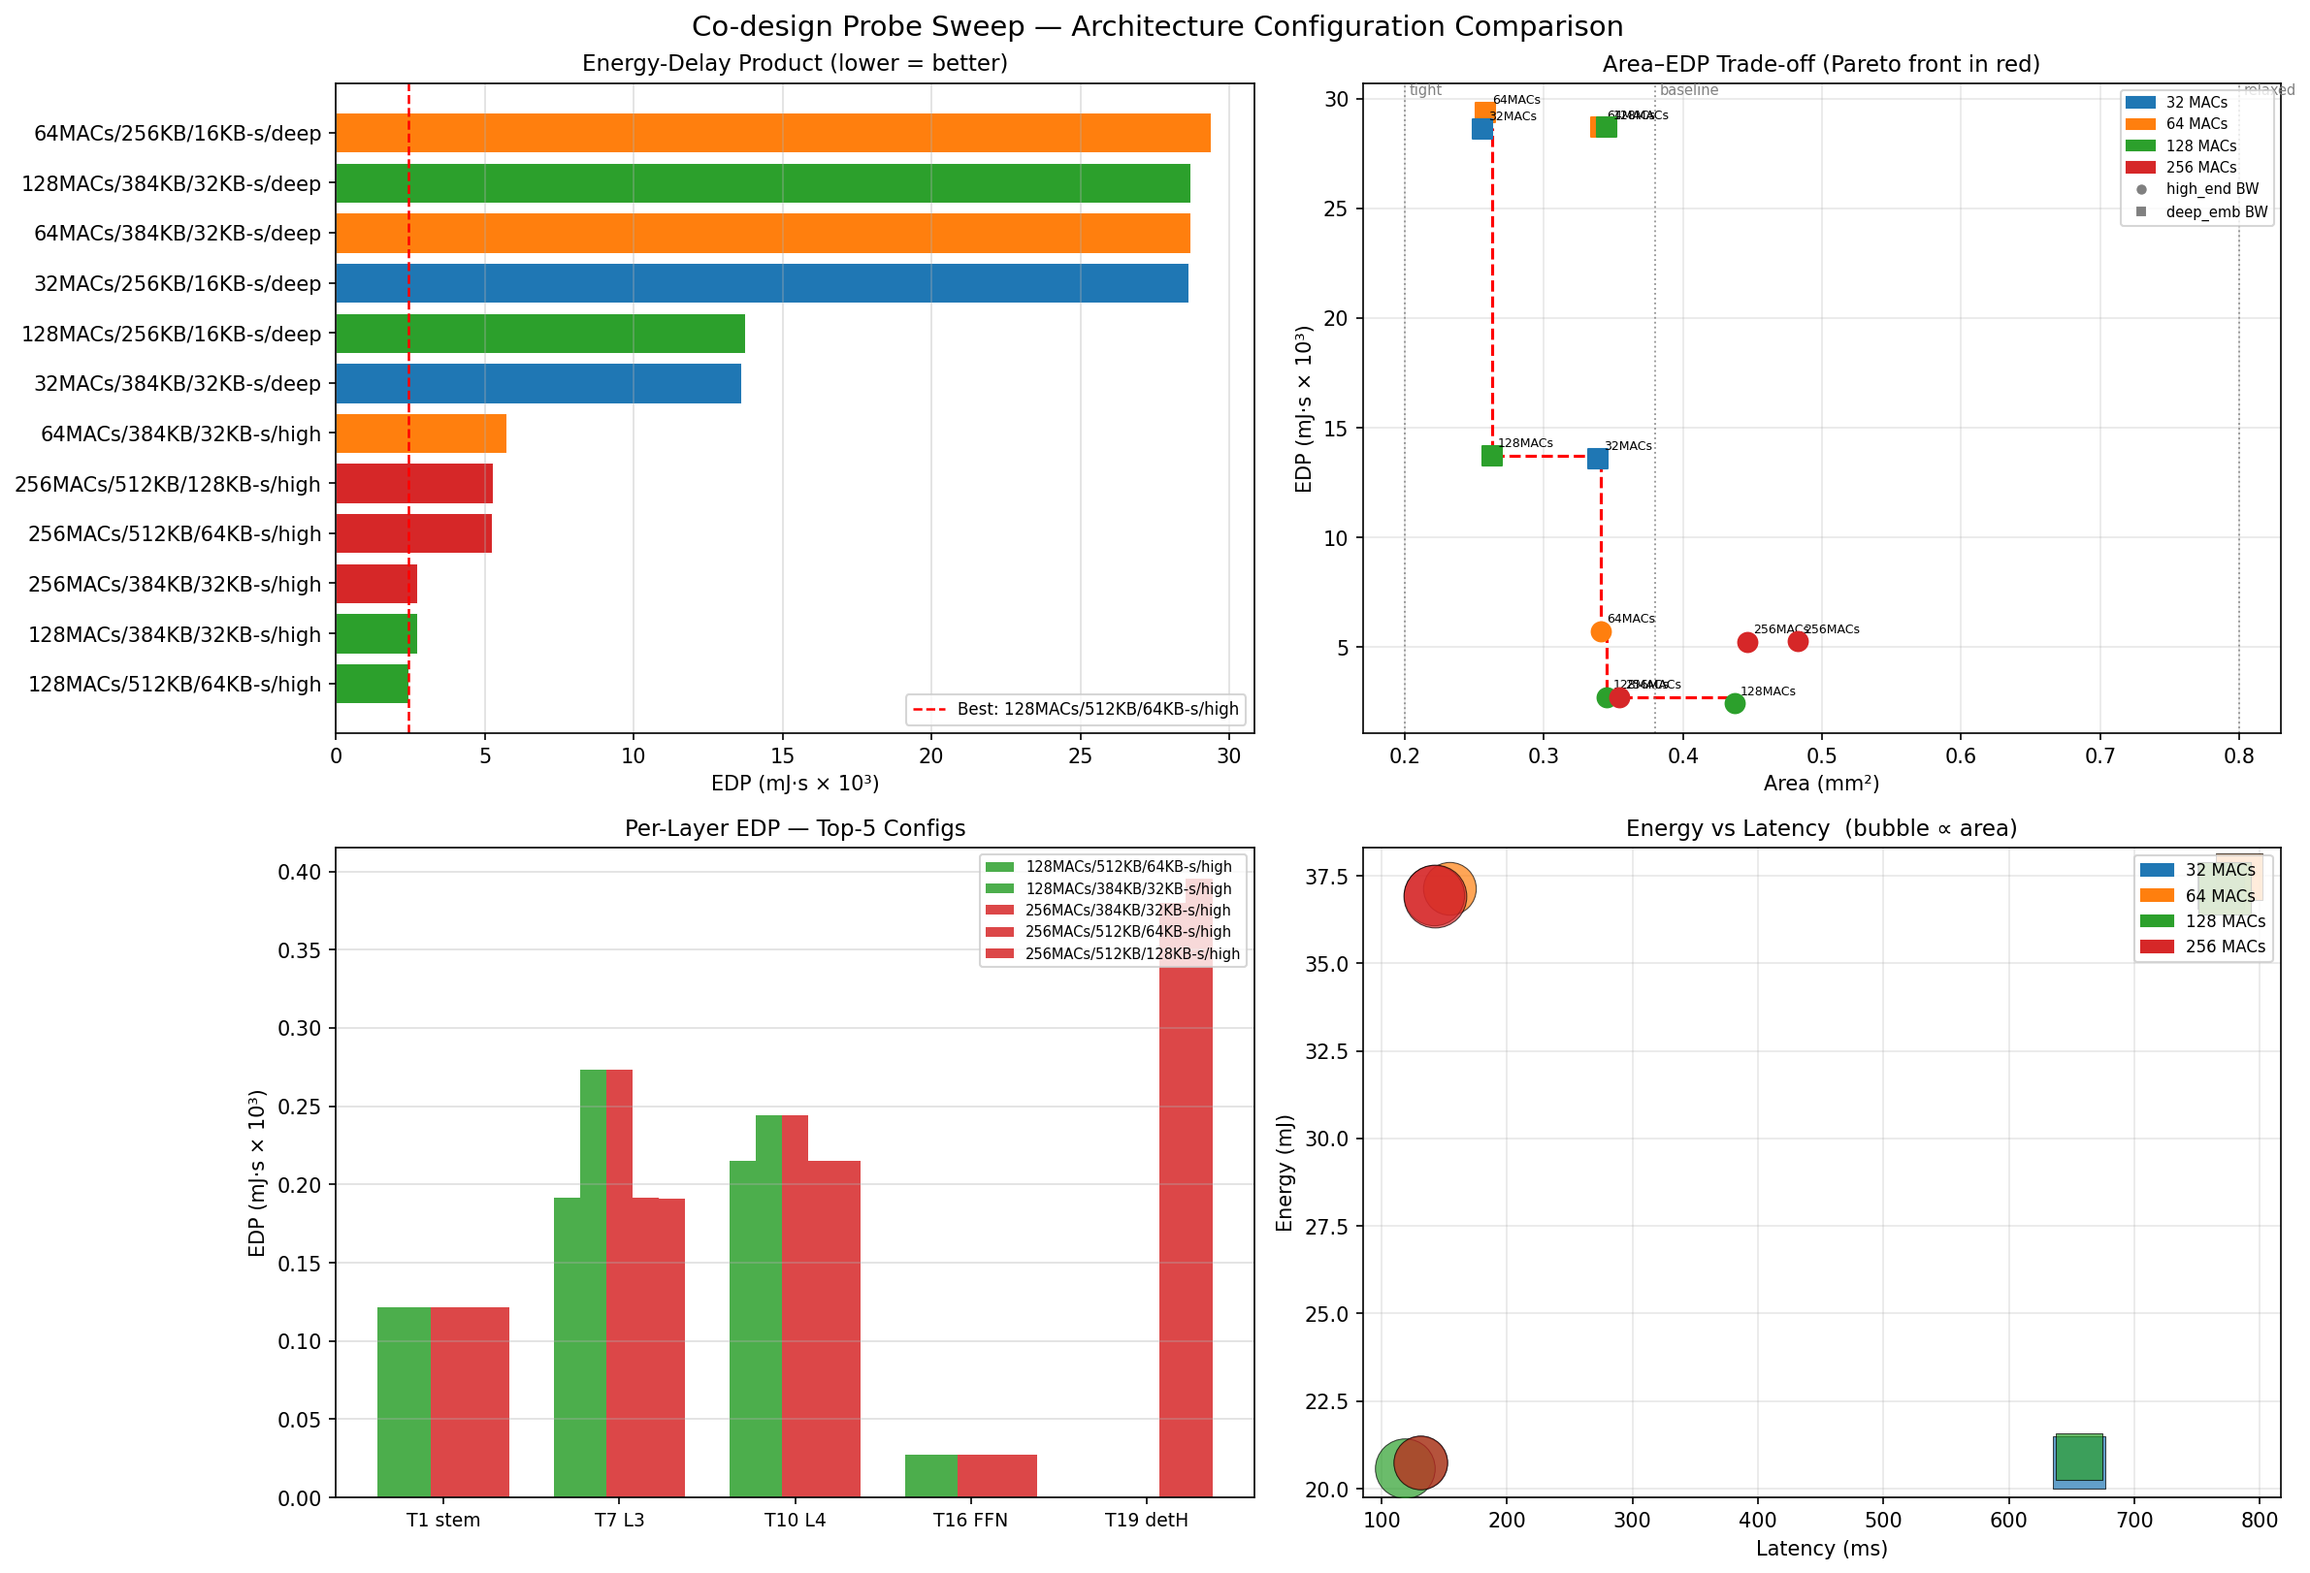
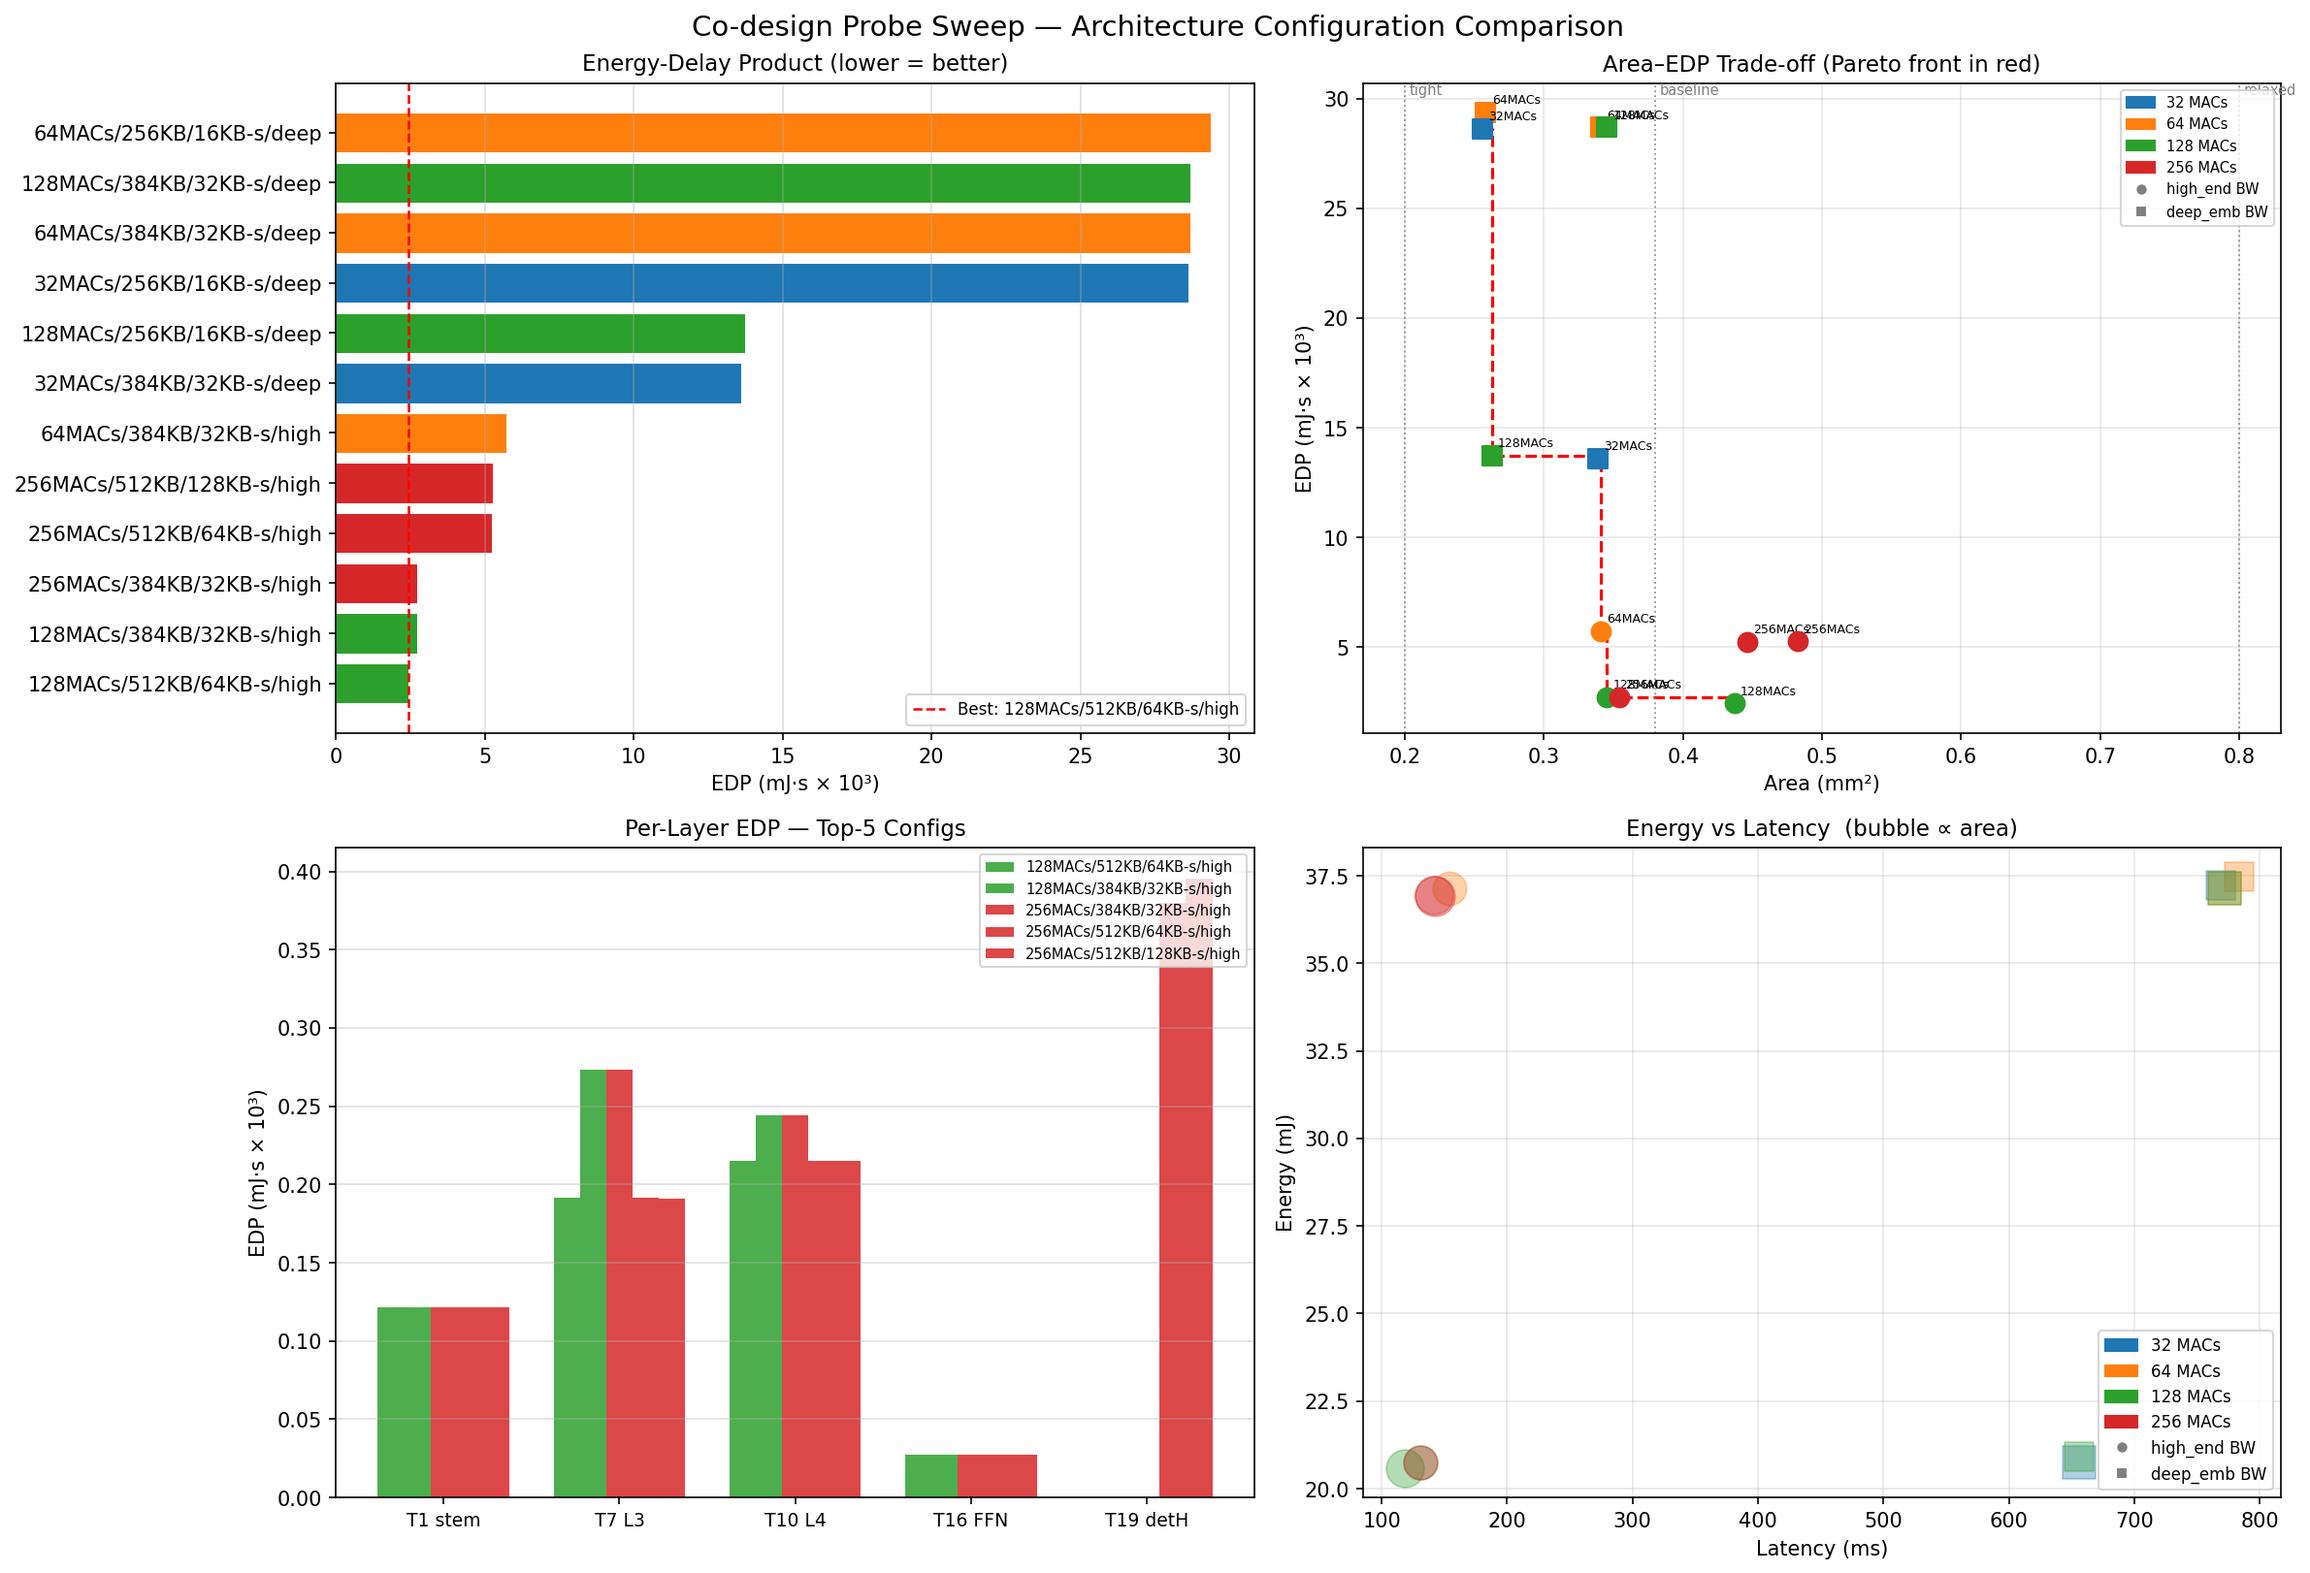
budget sweep plots + docs of search space

diff --git a/milestone_2/plot_results.py b/milestone_2/plot_results.py
@@ -149,16 +149,18 @@ def plot_probe_sweep(data: list[dict], out_path: Path) -> None:
 
     # ── Panel 4: Energy vs Latency scatter (bubble = area) ────────────────────
     ax = axes[1, 1]
-    bubble_scale = 2000
+    bubble_scale = 800
     for c, col in zip(configs, colors):
         ax.scatter(c["total_latency_s"] * 1e3, c["total_energy_j"] * 1e3,
-                   s=c["area_mm2"] * bubble_scale, color=col, alpha=0.7,
-                   marker=_preset_marker(c["system_preset"]), edgecolors="black", linewidths=0.5, zorder=3)
+                   s=c["area_mm2"] * bubble_scale, color=col, alpha=0.35,
+                   marker=_preset_marker(c["system_preset"]), edgecolors=col, linewidths=0.8, zorder=3)
     ax.set_xlabel("Latency (ms)", fontsize=10)
     ax.set_ylabel("Energy (mJ)", fontsize=10)
     ax.set_title("Energy vs Latency  (bubble ∝ area)", fontsize=11)
     legend_patches = [mpatches.Patch(color=mac_color[m], label=f"{m} MACs") for m in mac_vals]
-    ax.legend(handles=legend_patches, fontsize=8, loc="upper right")
+    legend_patches.append(plt.Line2D([0], [0], marker="o", color="w", markerfacecolor="gray", label="high_end BW"))
+    legend_patches.append(plt.Line2D([0], [0], marker="s", color="w", markerfacecolor="gray", label="deep_emb BW"))
+    ax.legend(handles=legend_patches, fontsize=8, loc="lower right")
     ax.grid(True, alpha=0.3)
 
     plt.tight_layout()
@@ -168,31 +170,139 @@ def plot_probe_sweep(data: list[dict], out_path: Path) -> None:
 
 
 def plot_budget_sensitivity(data: dict, out_path: Path) -> None:
-    """Bar chart comparing best config per budget tier."""
+    """4-panel budget sensitivity visualization using all configs per tier."""
     budgets = list(data.keys())
-    metrics = ["total_energy_j", "total_latency_s", "total_edp", "area_mm2"]
-    metric_labels = ["Energy (mJ)", "Latency (ms)", "EDP (mJ·s × 10³)", "Area (mm²)"]
-    scale = [1e3, 1e3, 1e3, 1.0]
+    tier_cmap = plt.cm.Set1
+    tier_colors = {b: tier_cmap(i / max(len(budgets) - 1, 1)) for i, b in enumerate(budgets)}
 
-    fig, axes = plt.subplots(1, 4, figsize=(18, 5))
-    fig.suptitle("Budget Sensitivity: Best Config Per Budget Tier", fontsize=13)
+    fig, axes = plt.subplots(2, 2, figsize=(16, 11))
+    fig.suptitle("Budget Sensitivity: Area–EDP Co-design Trade-offs", fontsize=14, y=0.98)
 
-    colors = plt.cm.Set2(np.linspace(0, 0.6, len(budgets)))
-    for ax, metric, mlabel, sc in zip(axes, metrics, metric_labels, scale):
-        vals, xlabels = [], []
-        for b, bdat in data.items():
-            best = bdat.get("best")
-            if best:
-                vals.append(best.get(metric, 0) * sc)
-                xlabels.append(f"{b}\n{_short_label(best.get('label',''))}")
-            else:
-                vals.append(0)
-                xlabels.append(f"{b}\n(none)")
-        bars = ax.bar(xlabels, vals, color=colors, edgecolor="white")
-        ax.bar_label(bars, fmt="%.3f", fontsize=8, padding=2)
-        ax.set_ylabel(mlabel, fontsize=9)
-        ax.set_title(mlabel, fontsize=10)
-        ax.yaxis.grid(True, alpha=0.4)
+    # ── Panel 1: Area–EDP scatter — all configs, colored by budget tier ───────
+    ax = axes[0, 0]
+    for tier, bdat in data.items():
+        col = tier_colors[tier]
+        budget_limit = bdat.get("budget_mm2", None)
+        all_cfgs = bdat.get("all", [])
+        best = bdat.get("best")
+        if not all_cfgs and best:
+            all_cfgs = [best]
+        xs = [c["area_mm2"] for c in all_cfgs]
+        ys = [c["total_edp"] * 1e3 for c in all_cfgs]
+        ax.scatter(xs, ys, color=col, alpha=0.55, s=60, zorder=3,
+                   label=f"{tier} (≤{budget_limit} mm²)" if budget_limit else tier)
+        # Highlight best
+        if best:
+            ax.scatter(best["area_mm2"], best["total_edp"] * 1e3,
+                       color=col, s=180, marker="*", edgecolors="black",
+                       linewidths=0.8, zorder=5)
+        # Pareto front within this tier
+        if len(all_cfgs) > 1:
+            px = [c["area_mm2"] for c in all_cfgs]
+            py = [c["total_edp"] for c in all_cfgs]
+            pidx = _pareto_front(px, py)
+            ppx = [px[i] for i in pidx]
+            ppy = [py[i] * 1e3 for i in pidx]
+            ax.step(ppx + [ppx[-1]], ppy + [ppy[-1]], where="post",
+                    color=col, linewidth=1.2, linestyle="--", alpha=0.7, zorder=2)
+        # Budget limit vertical line
+        if budget_limit:
+            ax.axvline(budget_limit, color=col, linestyle=":", linewidth=0.9, alpha=0.6)
+
+    ax.legend(fontsize=8, loc="upper right")
+    ax.set_xlabel("Area (mm²)", fontsize=10)
+    ax.set_ylabel("EDP (mJ·s × 10³)", fontsize=10)
+    ax.set_title("Area–EDP Trade-offs by Budget Tier\n(★ = best; dashed = Pareto front; dotted = limit)", fontsize=10)
+    ax.grid(True, alpha=0.3)
+
+    # ── Panel 2: EDP comparison — all configs per tier as grouped bars ────────
+    ax = axes[0, 1]
+    x_pos = 0
+    xticks, xticklabels = [], []
+    gap = 0.4
+    for tier, bdat in data.items():
+        col = tier_colors[tier]
+        all_cfgs = bdat.get("all", [])
+        best = bdat.get("best")
+        if not all_cfgs and best:
+            all_cfgs = [best]
+        sorted_cfgs = sorted(all_cfgs, key=lambda c: c["total_edp"])
+        tier_xs = []
+        for c in sorted_cfgs:
+            edp_val = c["total_edp"] * 1e3
+            bar_col = col if (best and c.get("label") != best.get("label")) else "none"
+            edge_col = col
+            hatch = "" if (best and c.get("label") == best.get("label")) else ".."
+            ax.bar(x_pos, edp_val, color=col,
+                   alpha=1.0 if (best and c.get("label") == best.get("label")) else 0.45,
+                   edgecolor="black", linewidth=0.4, hatch=hatch if hatch else None, width=0.7)
+            tier_xs.append(x_pos)
+            x_pos += 1
+        # Tier label centered under the group
+        if tier_xs:
+            xticks.append(np.mean(tier_xs))
+            xticklabels.append(f"{tier}\n({len(sorted_cfgs)} cfgs)")
+        x_pos += gap
+
+    ax.set_xticks(xticks)
+    ax.set_xticklabels(xticklabels, fontsize=9)
+    ax.set_ylabel("EDP (mJ·s × 10³)", fontsize=10)
+    ax.set_title("EDP of All Configs Per Budget Tier\n(solid = best, hatched = others)", fontsize=10)
+    ax.yaxis.grid(True, alpha=0.4)
+    # Legend: one patch per tier
+    patches = [mpatches.Patch(color=tier_colors[b], label=b) for b in budgets]
+    ax.legend(handles=patches, fontsize=8)
+
+    # ── Panel 3: Per-layer EDP for best config in each tier ───────────────────
+    ax = axes[1, 0]
+    all_layer_ids = sorted(set(
+        l["layer_idx"]
+        for bdat in data.values()
+        for l in (bdat.get("best") or {}).get("layers", [])
+    ))
+    x = np.arange(len(all_layer_ids))
+    n_tiers = len(budgets)
+    width = 0.8 / max(n_tiers, 1)
+    for ti, (tier, bdat) in enumerate(data.items()):
+        best = bdat.get("best")
+        if not best:
+            continue
+        layer_map = {l["layer_idx"]: l["edp"] * 1e3 for l in best.get("layers", [])}
+        layer_edps = [layer_map.get(lid, 0.0) for lid in all_layer_ids]
+        offset = (ti - n_tiers / 2 + 0.5) * width
+        ax.bar(x + offset, layer_edps, width, label=f"{tier}: {_short_label(best['label'])}",
+               color=tier_colors[tier], alpha=0.85, edgecolor="white", linewidth=0.4)
+    ax.set_xticks(x)
+    ax.set_xticklabels([PROBE_LAYER_NAMES.get(lid, f"T{lid}") for lid in all_layer_ids], fontsize=9)
+    ax.set_ylabel("EDP (mJ·s × 10³)", fontsize=10)
+    ax.set_title("Per-Layer EDP — Best Config Per Budget Tier", fontsize=10)
+    ax.legend(fontsize=7, loc="upper right")
+    ax.yaxis.grid(True, alpha=0.4)
+
+    # ── Panel 4: Best-config summary metrics bar chart ────────────────────────
+    ax = axes[1, 1]
+    metrics = [
+        ("total_energy_j", "Energy (mJ)", 1e3),
+        ("total_latency_s", "Latency (ms)", 1e3),
+        ("total_edp", "EDP (×10³)", 1e3),
+        ("avg_power_mw", "Avg Power (mW)", 1.0),
+    ]
+    x = np.arange(len(metrics))
+    width = 0.8 / max(n_tiers, 1)
+    for ti, (tier, bdat) in enumerate(data.items()):
+        best = bdat.get("best")
+        if not best:
+            continue
+        vals = [best.get(m, 0) * sc for m, _, sc in metrics]
+        offset = (ti - n_tiers / 2 + 0.5) * width
+        bars = ax.bar(x + offset, vals, width, label=f"{tier}: {_short_label(best['label'])}",
+                      color=tier_colors[tier], alpha=0.85, edgecolor="white", linewidth=0.4)
+        ax.bar_label(bars, fmt="%.2f", fontsize=7, padding=2)
+    ax.set_xticks(x)
+    ax.set_xticklabels([lbl for _, lbl, _ in metrics], fontsize=9)
+    ax.set_title("Best-Config Summary Metrics Per Tier", fontsize=10)
+    ax.legend(fontsize=7, loc="upper right")
+    ax.yaxis.grid(True, alpha=0.4)
 
     plt.tight_layout()
     fig.savefig(out_path, dpi=150, bbox_inches="tight")

diff --git a/milestone_2/search-space.md b/milestone_2/search-space.md
@@ -1,0 +1,53 @@
+# Co-design Search Space
+
+## Design axes (all experiments)
+
+| Axis | Values |
+|---|---|
+| `num_macs` | 32, 64, 128, 256 |
+| `sram_kb` | 256, 384, 512 |
+| `scratch_kb` | 16, 32, 64, 128 |
+| `system_preset` | `deep_embedded` (1.6 GB/s), `high_end_embedded` (4 GB/s) |
+
+Configs are not a full grid — they're 12 hand-picked points that cover meaningful (MACs, memory, bandwidth) combinations and exclude clearly dominated configs:
+
+| num_macs | sram_kb | scratch_kb | system_preset |
+|---|---|---|---|
+| 32 | 256 | 16 | deep |
+| 32 | 384 | 32 | deep |
+| 64 | 256 | 16 | deep |
+| 64 | 384 | 32 | deep |
+| 64 | 384 | 32 | high |
+| 128 | 256 | 16 | deep |
+| 128 | 384 | 32 | deep ← reference (Ethos-U55/128) |
+| 128 | 384 | 32 | high |
+| 128 | 512 | 64 | high |
+| 256 | 384 | 32 | high |
+| 256 | 512 | 64 | high |
+| 256 | 512 | 128 | high |
+
+## Per-flag scope
+
+### `--probe`
+All 12 configs × **5 probe layers**: T1 (backbone stem), T7 (backbone L3), T10 (backbone L4), T16 (FFN), T19 (det head).  
+No budget filter. ~2hrs and no OOM erros
+
+### `--full`
+All 12 configs × **all 21 layers** (T0–T20).  
+No budget filter. Overnight; has hit OOM on some layers.
+
+### `--budget`
+All 12 configs × 5 probe layers, run **3 times** — once per budget tier:
+
+| Tier | Area limit | Power limit |
+|---|---|---|
+| tight | ≤ 0.20 mm² | ≤ 50 mW |
+| baseline | ≤ 0.38 mm² | ≤ 100 mW |
+| relaxed | ≤ 0.80 mm² | ≤ 500 mW |
+
+Configs that exceed the area limit are skipped before mapping; power-violating configs are excluded from the reported best.
+
+### `--workload`
+The **reference config** (128 MACs / 384 KB / 32 KB-scratch / high_end_embedded) mapped on **all probe layers** for both:
+- `yolo_world.yaml` — 640×640 input
+- `yolo_world_320.yaml` — 320×320 input (spatial dims halved; text/matmul layers unchanged)
